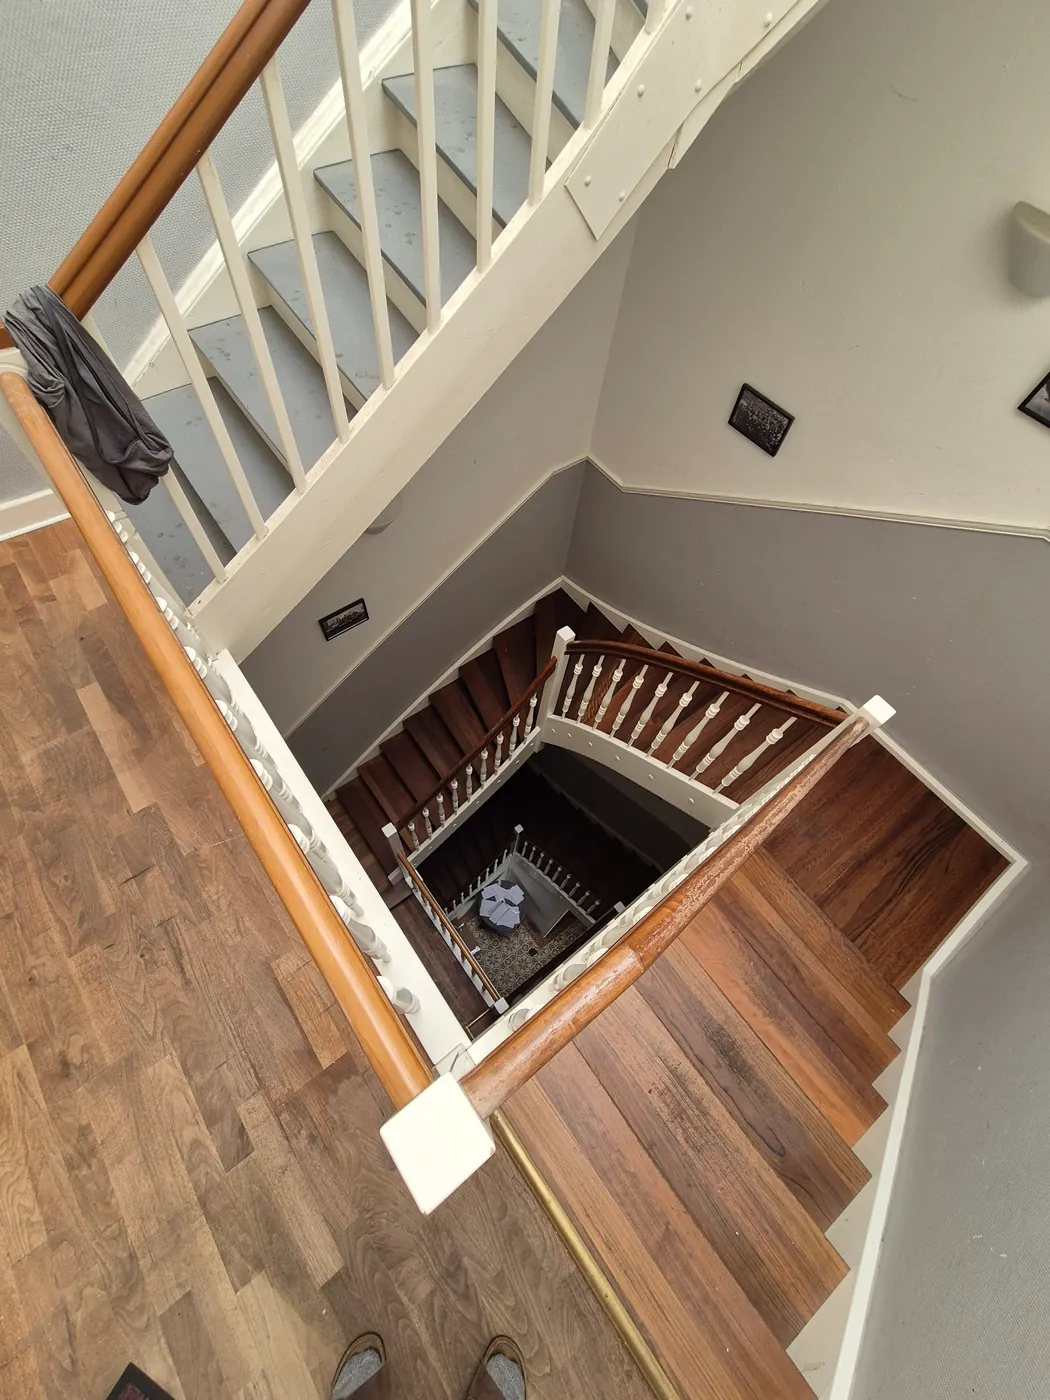
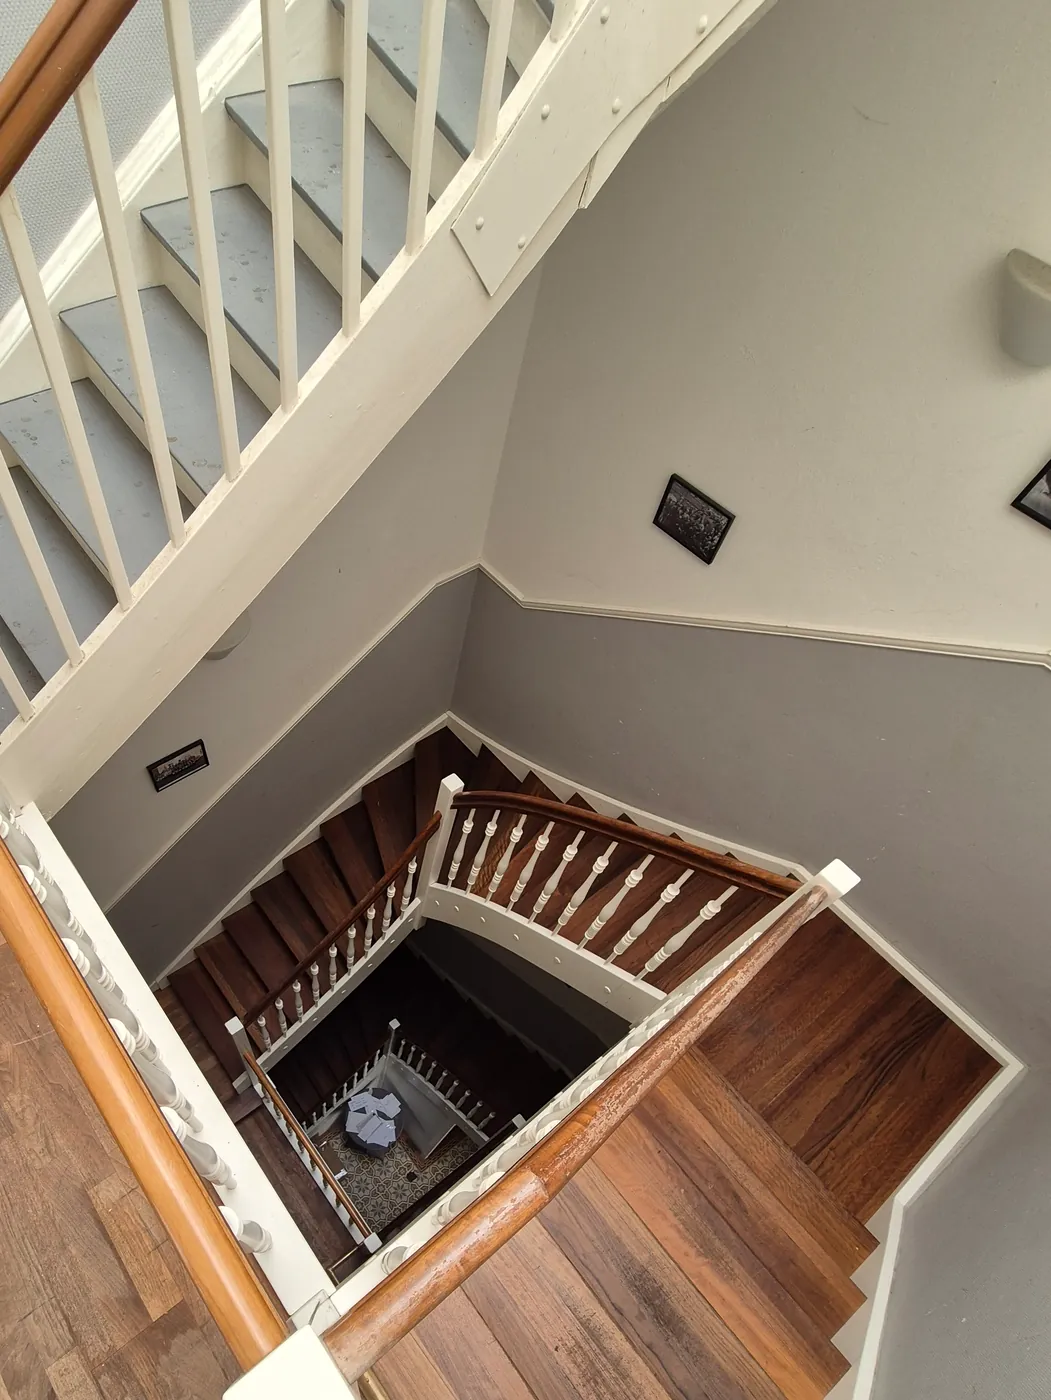
Rename /haus to "Unsere Wohnetagen" and rework its copy
Feedback from the Verein on the new page:

- The photos cover the residential floors, not the Kneipe or the event
  rooms, so "Unser Haus" overpromised. Retitle the page, the landing page
  button and the footer link. The route stays /haus.
- Drop the rent as a selling point. The Verein does not want to advertise
  with it, and it made for an awkward opening line. The first pull quote
  keeps its shape without the price argument, and the closing CTA loses
  the same claim.
- Recrop the last stairwell photo so the shirt hanging over the banister
  falls outside the frame; the shoes at the bottom edge go with it.

diff --git a/src/data/haus.ts b/src/data/haus.ts
@@ -1,6 +1,6 @@
 /**
- * Content for the /haus subpage — the house tour that turns visitors into
- * Zimmeranfragen. The gallery is a curated sequence: arriving in the hallway,
+ * Content for the /haus subpage — a tour of the Wohnetagen (the residential
+ * floors, not the whole house) that turns visitors into Zimmeranfragen. The gallery is a curated sequence: arriving in the hallway,
  * the rooms themselves, the shared spaces, then the house around them.
  *
  * `quote` entries are rendered as pull-quote cards inside the same grid, so
@@ -29,11 +29,11 @@ const photo = (file: string, alt: string): HausGalleryPhoto => ({
 const quote = (text: string): HausGalleryQuote => ({ kind: "quote", text });
 
 export const hausPage = {
-  title: "Unser Haus",
+  title: "Unsere Wohnetagen",
   subtitle: "Raesfeldstraße 32, Kreuzviertel",
   ctaHeading: "Wir haben Zimmer frei",
   ctaText:
-    "Zimmer im Kreuzviertel, wenige Minuten zur Uni, zu einer Miete, die in Münster selten geworden ist. Schreib uns kurz, wir zeigen dir das Haus persönlich.",
+    "Zimmer im Kreuzviertel, wenige Minuten zur Uni und in die Innenstadt. Schreib uns kurz, wir zeigen dir die Etagen persönlich.",
   ctaLabel: "Zimmer anfragen",
 };
 
@@ -41,7 +41,7 @@ export const hausGalerie: HausGalleryItem[] = [
   photo("01-flur-farben", "Flur im Ravensberg-Haus mit den Verbindungsfarben Grün, Gold und Rot an der Wand"),
   photo("02-treppenhaus-spindel", "Blick von oben in das Treppenhaus des Ravensberg-Hauses"),
 
-  quote("Ich bin wegen der Miete gekommen und wegen der Leute geblieben."),
+  quote("Man kommt wegen des Zimmers und bleibt wegen der Leute."),
 
   photo("03-zimmer-erker", "Zimmer mit Erker und Rundbogenfenstern"),
   photo("04-zimmer-holzbalken", "Zimmer mit offener Holzbalkendecke und Schreibtisch am Fenster"),
@@ -66,7 +66,7 @@ export const hausGalerie: HausGalleryItem[] = [
   photo("18-bad-wanne", "Badezimmer mit Dusche, Waschbecken und Waschmaschine"),
   photo("19-waschraum", "Waschraum mit zwei Waschbecken"),
   photo("20-waschraum-fenster", "Waschraum mit zwei Waschbecken und Fenster"),
-  photo("21-treppenhaus-holz", "Holztreppe im Treppenhaus des Ravensberg-Hauses"),
+  photo("21-treppenhaus-holz", "Blick über das Treppenhaus des Ravensberg-Hauses"),
 
   quote("Den Rest kann man schlecht fotografieren. Komm vorbei."),
 ];

diff --git a/src/components/UnserHaus.tsx b/src/components/UnserHaus.tsx
@@ -109,7 +109,7 @@ export function UnserHaus() {
               href="/haus"
               className="inline-flex items-center justify-center gap-2.5 rounded-lg bg-accent px-7 py-4 font-serif text-base font-semibold text-background shadow-lg transition-colors duration-200 hover:bg-foreground focus:outline-none focus-visible:ring-2 focus-visible:ring-accent focus-visible:ring-offset-2"
             >
-              Alle Bilder vom Haus ansehen
+              Unsere Wohnetagen ansehen
               <svg
                 aria-hidden="true"
                 className="w-4 h-4"

diff --git a/src/components/Footer.tsx b/src/components/Footer.tsx
@@ -164,7 +164,7 @@ export function Footer() {
           </p>
           <div className="flex gap-6">
             <Link href="/haus" className="hover:text-background transition-colors">
-              Unser Haus
+              Wohnetagen
             </Link>
             <Link href="/geschichte" className="hover:text-background transition-colors">
               Geschichte

diff --git a/CLAUDE.md b/CLAUDE.md
@@ -55,7 +55,7 @@ Single scrollable page (`src/app/page.tsx`) with sections in this order:
 Section backgrounds **alternate** cream (`bg-background`, default) / muted (`bg-muted`, via `Section`'s `bgClassName`), starting cream at Willkommen. Cards contrast their section: on a muted section use `bg-background` cards; on a cream section use `bg-muted` cards. Adding or reordering a section flips the parity of everything after it, so re-check the whole sequence when you do.
 
 Sub-routes (separate pages, not part of the scroll page):
-- `/haus` — house tour: hero, 21-photo gallery, "Wir haben Zimmer frei" CTA → see [Haus-Galerie](#haus-galerie)
+- `/haus` — "Unsere Wohnetagen": hero, 21-photo gallery, "Wir haben Zimmer frei" CTA → see [Haus-Galerie](#haus-galerie)
 - `/geschichte` — full history of the Verbindung (indexed by Google, SEO content page)
 - `/impressum` and `/datenschutz` — legal pages (noindex)
 
@@ -91,8 +91,14 @@ bun run import:semester -- \
 
 ### Haus-Galerie
 
-`/haus` is the conversion page: it shows the house so visitors can picture living
-there, and every path on it ends at the "Wir haben Zimmer frei" mailto.
+`/haus` is the conversion page: it shows the Wohnetagen so visitors can picture
+living there, and every path on it ends at the "Wir haben Zimmer frei" mailto.
+
+The page is titled "Unsere Wohnetagen", not "Unser Haus": the photos cover the
+residential floors only, not the Kneipe or the event rooms. The route stays
+`/haus` — short and the better search term. Do not claim the page shows the
+whole house, and keep the copy off the rent as a selling point (the Verein
+does not want to advertise with it).
 
 - Photos live in `public/images/haus-galerie/` as WebP, portrait 3:4, ~1400px on
   the long edge. The numeric filename prefix (`01-…` … `21-…`) is only a hint;
